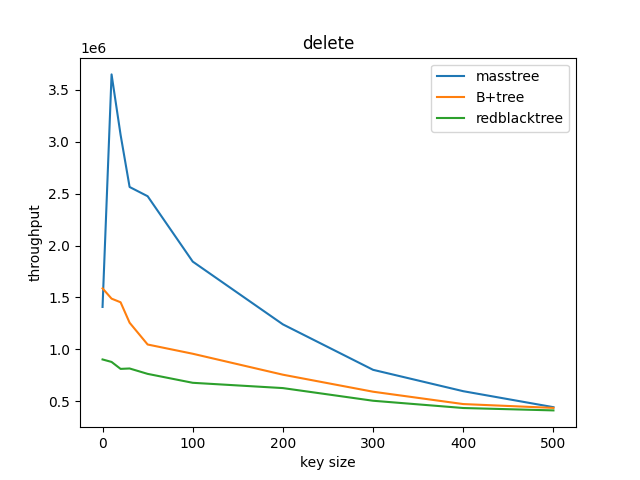
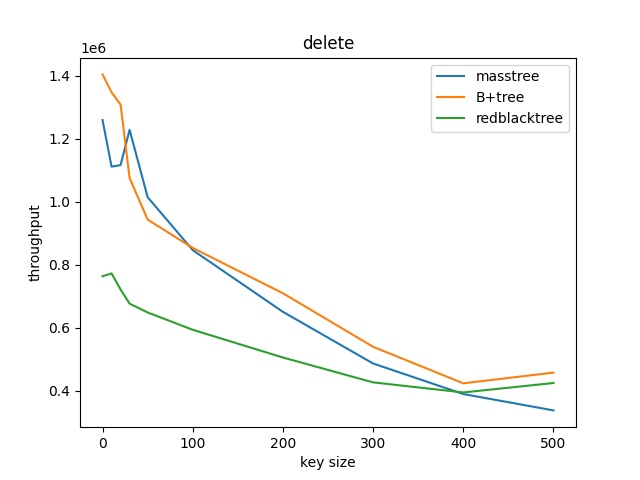
full test

diff --git a/Evaluate.java b/Evaluate.java
@@ -12,7 +12,7 @@ public class Evaluate {
 
     public static class RandStr {
 
-        private static String target = "ABCDEFGHIJKLMNOPQRSTUVWXYZ";
+        private static String target = "abcdefghijklmnopqrstuvwxyzABCDEFGHIJKLMNOPQRSTUVWXYZ";
         Random rnd = new Random(0);
         // rand string create
         public String randStrFunc(int count) {
@@ -154,6 +154,7 @@ public class Evaluate {
             if(t > dontUse){sumdel += Time;}
             System.out.println("B+tree #" + t + ": " + numKeys/2 + "keys deleted/" + Time + " ms");
             tree = null;
+            System.gc();
         }
         long bplusins = (numKeys) / (sumins/(numTests - dontUse - 1))*1000;
         long bplusget = (numKeys/2) / (sumget/(numTests - dontUse - 1))*1000;
@@ -203,6 +204,7 @@ public class Evaluate {
             if(t > dontUse){sumdel += Time;}
             System.out.println("RedBlacktree #" + t + ": " + numKeys/2 + "keys deleted/" + Time + " ms");
             tree = null;
+            System.gc();
         }
         long rbins = (numKeys) / (sumins/(numTests - dontUse - 1))*1000;
         long rbget = (numKeys/2) / (sumget/(numTests - dontUse - 1))*1000;
@@ -248,6 +250,7 @@ public class Evaluate {
             if(t > dontUse){sumdel += Time;}
             System.out.println("HashMap #" + t + ": " + numKeys/2 + "keys deleted/" + Time + " ms");
             map = null;
+            System.gc();
         }
         long hashins = (numKeys) / (sumins/(numTests - dontUse - 1))*1000;
         long hashget = (numKeys/2) / (sumget/(numTests - dontUse - 1))*1000;

diff --git a/plot.py b/plot.py
@@ -3,12 +3,13 @@ import math
 import numpy as np
 from matplotlib import pyplot
 
-size_array = [0, 10, 20, 30, 50, 100, 200, 300, 400, 500]
+size_array = [0, 20, 40, 80, 160, 320, 640]
+#size_array = [0,80,640]
 def makefigure(operation):
     results_mass = []
     results_b = []
-    results_rb =[ ]
-    result_hm = []
+    results_rb =[]
+    results_hm = []
     if(operation == 0):
         op = "put"
     if(operation == 1):
@@ -29,13 +30,14 @@ def makefigure(operation):
     result_mass = []
     result_b = []
     result_rb = []
-    resutt_hm = []
+    result_hm = []
         
     # put
     for i in range(len(size_array)):
         result_mass.append(results_mass[i*4+operation])
         result_b.append(results_b[i*4+operation])
         result_rb.append(results_rb[i*4+operation])
+        result_hm.append(results_hm[i*4+operation])
     pyplot.figure()
     pyplot.title(op)
     pyplot.xlabel('key size')
@@ -45,9 +47,9 @@ def makefigure(operation):
     pyplot.plot(size_array, result_rb, label='redblacktree')
     pyplot.plot(size_array, result_hm, label='hashmap')
     pyplot.legend()
-    pyplot.savefig("graphs/" + op + ".png")
+    pyplot.savefig("graphs/" + op + "_10000000keys_smooth.png")
     pyplot.show()
 makefigure(0)
 makefigure(1)
-makefigure(2)
-makefigure(3)
+#makefigure(2)
+#makefigure(3)
